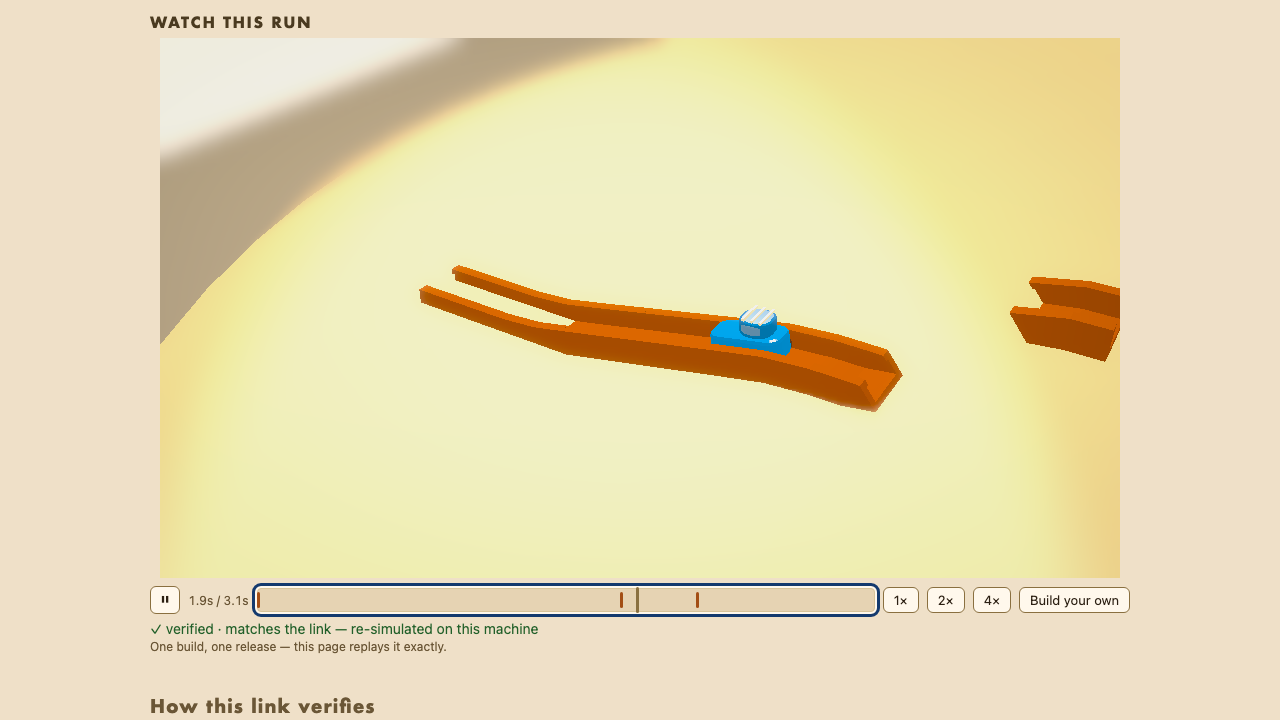
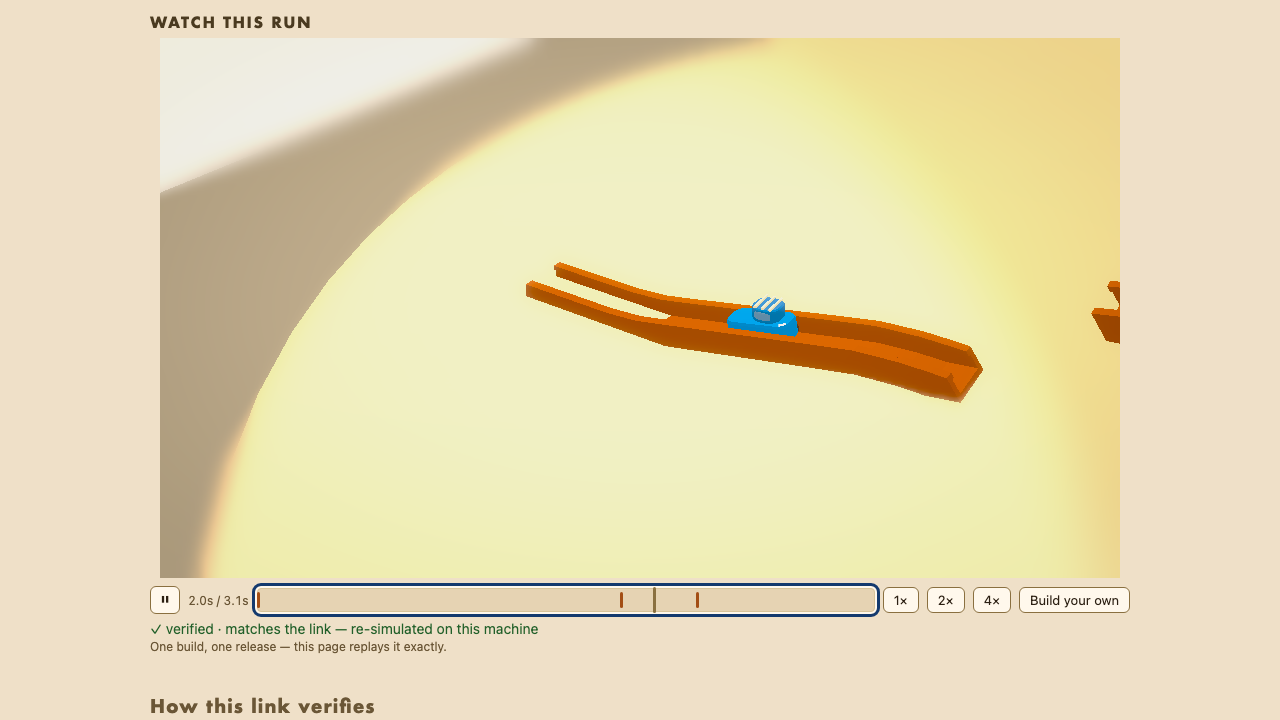
downhill: the front door session note — the re-baseline enumerated per surface; probes out of the tree

Changed region(s): [[0.125, 0.0306, 0.5938, 0.825], [0.3125, 0.3667, 0.7812, 0.5806], [0.7812, 0.3667, 0.875, 0.5194]]

diff --git a/tests/unit/front-door.test.ts b/tests/unit/front-door.test.ts
@@ -1,0 +1,68 @@
+/**
+ * THE FRONT DOOR purs (downhill build 2): the window naming and the sill
+ * are pure folds of the campaign table and the save's stars — the same
+ * registry-truth law the farewell tally obeys — and the parked wide crane
+ * (`homePose`) plus the beat's pull-back (`beatPullPose`) are pure over
+ * the layout, so the frame that holds six windows is a theorem of the
+ * deck bounds and the frustum, not a tuning. `HOUSE_BEAT_LEVEL` is the
+ * input law honored in the beat's data: no wind, one legal launch push.
+ */
+import { describe, expect, test } from 'vitest';
+import { windowAriaName, windowSillLine, HOUSE_BEAT, HOUSE_BEAT_LEVEL } from '../../src/pages/house.ts';
+import { homePose, beatPullPose, menuPose } from '../../src/camera/house-camera.ts';
+import { HOUSE } from '../../src/world/levels/house.level.ts';
+import { houseLayout } from '../../src/world/house-frame.ts';
+
+describe('the window name and the sill — registry folds, not strings', () => {
+  test('the prompt’s shape: room, rungs, toured — and the star clause only when earned', () => {
+    expect(windowAriaName('Kitchen', 5, 8, 15)).toBe('kitchen, 5 rungs, toured, 8 of 15 stars');
+    expect(windowAriaName('Kitchen', 5, 15, 15)).toBe('kitchen, 5 rungs, toured, 15 of 15 stars');
+    expect(windowAriaName('Garden', 5, 0, 15)).toBe('garden, 5 rungs, not toured yet');
+  });
+  test('nothing earned, nothing worn — an unstarred room wears no fake stars', () => {
+    expect(windowSillLine(0, 15)).toBe('');
+    expect(windowSillLine(5, 15)).toBe('★ 5/15');
+  });
+});
+
+describe('the parked wide crane — the menu camera the door projects through', () => {
+  const layout = houseLayout();
+  test('homePose frames EVERY deck: all six centers inside the frustum', () => {
+    const p = homePose(layout, 35, 960 / 540);
+    // eye pulled back along +z from the section’s axis; every deck center
+    // projects inside NDC with the 15 % margin baked in
+    const vFov = (35 * Math.PI) / 180;
+    const hFov = 2 * Math.atan(Math.tan(vFov / 2) * (960 / 540));
+    for (const d of layout.decks) {
+      const dx = Math.abs(d.center[0] - p.target[0]);
+      const dy = Math.abs(d.center[1] - p.target[1]);
+      const z = p.eye[2] - d.center[2];
+      expect(dx).toBeLessThan(z * Math.tan(hFov / 2));
+      expect(dy).toBeLessThan(z * Math.tan(vFov / 2));
+    }
+    expect(p.eye[2]).toBeGreaterThan(8); // wide, not a porch close-up
+    expect(p.fog).toBe(0);
+  });
+  test('beatPullPose starts AT the kitchen window and ends at the wide house', () => {
+    const from = menuPose(layout, 'kitchen');
+    const wide = homePose(layout, 35, 960 / 540);
+    const p0 = beatPullPose(layout, 0, HOUSE_BEAT.pullS, 35, 960 / 540);
+    const p1 = beatPullPose(layout, HOUSE_BEAT.pullS, HOUSE_BEAT.pullS, 35, 960 / 540);
+    expect(p0.eye).toEqual(from.eye);
+    for (let i = 0; i < 3; i++) expect(p1.eye[i]).toBeCloseTo(wide.eye[i], 9);
+    const mid = beatPullPose(layout, HOUSE_BEAT.pullS / 2, HOUSE_BEAT.pullS, 35, 960 / 540);
+    expect(mid.eye[2]).toBeGreaterThan(p0.eye[2]); // it only ever pulls back
+    expect(mid.eye[2]).toBeLessThan(p1.eye[2]);
+  });
+});
+
+describe('the beat’s data — the input law honored, the receipt untouched', () => {
+  test('no wind in the data, one launch push, the house’s own geometry', () => {
+    expect(HOUSE_BEAT_LEVEL.inputs).toEqual({ windEvery: 0, windDeltaV: 0, launchSpeed: 1.3 });
+    expect(HOUSE_BEAT_LEVEL.id).toBe('house');
+    expect(HOUSE_BEAT_LEVEL.parBuild).toBe(HOUSE.parBuild);
+  });
+  test('the beat’s timings are the measured roll: pull, kitchen-crossing roll-end, still', () => {
+    expect(HOUSE_BEAT).toEqual({ pullS: 1.0, rollEndS: 4.5, stillS: 0.5, timeoutMs: 12000 });
+  });
+});

diff --git a/docs/vault/Sessions/2026-10-12 Front door.md b/docs/vault/Sessions/2026-10-12 Front door.md
@@ -1,0 +1,101 @@
+---
+tags: [session]
+livedocs: snapshot
+---
+# 2026-10-12 Front door
+
+Feel Engineer, build 2 of "THE DOWNHILL greenlit" (branch `dh-door`, ports 5050+). The irreversible
+commit of the program, taken in the open: THE FRONT DOOR — the home screen becomes THE HOUSE,
+rendered — and THE FAREWELL REWIRED, NOT DELETED. Laws 3 and 4 executed verbatim; the house route
+shipped in `dh-house` (receipt `6caea49b`, camera v1) is the ground this stands on.
+
+## What shipped (the five artifacts)
+
+1. **HOME SCREEN = THE HOUSE** (`src/pages/house.ts` home mode, routed by `src/boot.ts`): the bare
+   route renders the cross-section under the parked wide crane (`homePose` — camera v2, the crane's
+   path parked as the menu camera it always was, pure over the deck bounds + frustum). THE SIX
+   WINDOWS are the interactive level select: `#gw-house-window-<room>` buttons projected through
+   exactly that pose (`placeWindows` — positions are layout facts, not tunings), named
+   `kitchen, 5 rungs, toured, 8 of 15 stars` (`windowAriaName` — stars folded per room from
+   `progress.stars`), toured rooms wearing `★ 8/15` on the sill (`windowSillLine`), Enter/Tab
+   opening the room's tour list AT THE UNCHANGED `?level=<room>NN` BYTES (locked rungs stay locks).
+   The house run is the front-door act (the same Release, the same receipt); the daily chip
+   (`#gw-daily-board` → `?daily=1`) and the LINES corner (the level select's own `createLinesTab`)
+   kept their corner chrome; `?levels=1` rides this commit UNCHANGED. **Premise beat REPURPOSED**:
+   first visit = the crane pulls back from the KITCHEN window (`beatPullPose`, 1.0 s) while a
+   stepped world over `HOUSE_BEAT_LEVEL` — the house with the wind OFF in the DATA and one legal
+   launch push (`launchSpeed: 1.3`, no wind: every force still in replayed data, the input law
+   honored by the letter) — free-rolls one room (garage @ 1.43 s) and dies in the next (the kitchen
+   crossing @ 3.23 s, roll-end 4.5 s, still 0.5 s): the game saying "it's all one place" BEFORE any
+   UI word (windows, chrome and sound all hidden by the same `.gw-premiere`; records nothing — the
+   e2e proves no best is minted by watching). Audience law UNCHANGED in `src/pages/intro.ts`
+   (webdriver skips, `intro=1` forces, `intro=off`/reduced-motion never sit through, ONE seen flag
+   via `markPremiereSeen`); the beat's world is a second stepped `World`, disposed at the end.
+2. **THE FAREWELL REWIRED** (`src/pages/farewell.ts`): porch05's first clear still plays the crane
+   pass + three doors — law kept VERBATIM, the page otherwise untouched. The row door 1 opens ON
+   gained, once the house exists, a seventh honest name: `#gw-farewell-house` — "the whole house",
+   deep-linking the house route at its build-1 bytes `?level=house`, gated on the registry (no
+   house, no link — the farewell never opens a door that is not there). Door 1's own click still
+   lands the porch sandbox in one click: the one-click-one-landing law is not what grew.
+3. **THE RE-BASELINE ACT** (law 3, stated not quiet) — enumerated per surface below. The URL
+   family (`tests/e2e/goto.ts`) grew `?boot=rung` as a DEFAULT for non-visual specs and
+   `?boot=house` as its named counterpart; the routing rule in `src/boot.ts`: bare route → home;
+   `?boot=rung` → the old front end; ANY rig address (`level/build/set/launch/daily`) routes
+   exactly as it always did — addressing doctrine stands.
+4. **A11Y**: every window is a real button in the Tab walk ONCE with the room-reading name
+   (proved by a real Tab traversal, never `focus()`), Enter enters, the global `:focus-visible`
+   ring (3 px `#143a6e`, 8.7:1 on the paper — the same contrast receipt as every surface) reads on
+   the cream cross-section; the sill is text, never color-only; the stage-6 a11y gate itself rides
+   `?boot=rung` UNCHANGED (it audits the game page, which did not move).
+5. **COLD-LOAD TRIPWIRE EXTENDED**: the build-1 standing tripwire (first page-load run equals the
+   node replay on a fresh profile) pointed at the ADDRESSED house page; build 2 adds the HOME-BOOT
+   face — bare `/?boot=house&launch=1`, first release, fresh browser, `hash === node`, steps equal,
+   ≥ 3 rooms (`front-door.spec.ts`). The receipt is the receipt behind whichever door.
+
+## THE RE-BASELINE ACT — every surface, WHAT moved and WHY (law 3's "enumerated per surface")
+
+| surface | what moved | why |
+|---|---|---|
+| bare `/` route | kitchen01 builder → THE HOUSE rendered | law 3, the irreversible UI act itself |
+| `tests/e2e/goto.ts` (non-visual family) | defaults grew `boot=rung`; every relative landing otherwise byte-same | the specs audit the rung chrome; they say "old front end" EXPLICITLY through the one door, per harness doctrine (parameter, not mutation) |
+| visual specs (`visual.spec.ts`, filmstrip, hash family, perf, post-dispose, harness) | ZERO edits; they never import the door and ride DEFAULT pages | they opt into fronts CONSCIOUSLY — and every existing view ADDRESSES its rig (`?harness=1…`, `?level=kitchen01&post=on`), so no pixel they own moved |
+| pixel baselines — `establishing`/`hero`/`floor`, `shell-kitchen01-idle` | UNMOVED, 0.0000 % at this HEAD | addressed surfaces the door did not touch (the append-only promise holding) |
+| pixel baselines — NEW `shell-home-idle` | added: `/?boot=house&post=on`, parked cross-section, no run/ghost; frame-stability self-check 0.0000 % (0 px, two captures); darwin committed, THE NEW LINUX VIEW bootstraps via the `linux-baselines` CI job (line extended per-view); joined `CI_ENFORCED_VIEWS` | the shipped FRONT PAGE needs pixel truth on CI's machine too (N1 doctrine, second member) |
+| first-visit e2e (`intro.spec.ts`) | REWRITTEN for the house boot: bare landing lands on the house (windows live, no beat under webdriver); `?intro=1` asserts the house beat (chrome hidden incl. the windows, ends ≤ ~6 s, records no best, skip returns the door, seen flag honoured); the old kitchen01 par-roll assertions retired — that film now exists only as the `?boot=rung&intro=1` rig | the beat MOVED with the door (law 4's beginning); the rung boot is an address and no longer anyone's first visit |
+| farewell e2e (`farewell.spec.ts`) | door-1 row count 6 → 7 + `#gw-farewell-house` name/href + a click-through that lands `?level=house`; every other door test byte-identical | the rewire is ONE added name on what door 1 opens ON; crane pass, three doors, one-click law verbatim |
+| a11y specs (`a11y.spec.ts`, `a11y-touch.spec.ts`) | UNCHANGED (they ride `?boot=rung` via the door) | the game-page walk, focus and never-color-only laws are surfaces the act did not move; the NEW surfaces' walk/names/ring are gated by `front-door.spec.ts` |
+| every other chrome/e2e spec (shell, result, p4-chrome, builder, playtests, campaign, daily, chain…) | ZERO edits — the `boot=rung` default carries them | law 3's promise: re-baseline means ENUMERATED, not quietly shifted |
+| `?levels=1` board + `createLinesTab` | UNCHANGED (the door OPENS the lines tab; one source for the rows) | the addressed board remains the board; the windows are the same player surface worn by the house, byte-compatible by construction |
+| downhill e2e (build 1's proofs) | UNCHANGED and green | `?level=house` addressing untouched; the tour byte-comparison proves the demotion again at the new door |
+| cold-load tripwire | EXTENDED (home boot first run = node hash), build-1 tripwire untouched | the door is presentation only: the same data, the same receipt, whichever door you enter |
+
+## The referee (final, at the branch tip)
+
+`npm run typecheck` clean · `npm test` 1016/1016 (55 files — `front-door.test.ts` joins: window
+naming/sill folds, `homePose` framing EVERY deck, `beatPullPose` endpoints/monotony, the beat's
+data) · `npm run replay:all` **30/30 verified, byte-identical** (house atlas row `6caea49b`/807
+untouched — the boot-family work added no physics) · `tally:sweep` 0/325 degenerates, farm 3 ·
+full `playwright test` green incl. the re-baselined `intro`, the rewired `farewell`, the new
+`front-door` (13 tests) and `visual` 8/8 (darwin views all 0.0000 %; `shell-home-idle` linux truth
+bootstraps on the PR via the CI job) · the home-boot tripwire hashes `6caea49b`/807, browser ===
+node, first launch, fresh profile.
+
+## Findings for the director
+
+- The beat's free-roll is THE measured number, not a tuning: wind-off + `launchSpeed: 1.3`
+  approves garage @ 1.43 s and kitchen @ 3.23 s, stalls @ ~9.4 s — the beat ends on its OWN plan
+  (4.5 s roll-end), so the player watches the death, not the stall-detection. `16 m/s` flung it
+  past kitchen (no approval, an honest near-miss logged by the sweep in `tmp/beatsweep.ts`, kept
+  out of the tree by the cleanup commit); `13` is the data that says "one room and dies in the
+  next".
+- Camera v2 is HONEST, not yet beautiful: the wide stance reads the staircase (six decks framed
+  with a 15 % margin) but the far rooms are small — the spike's per-room focused passes
+  (`shots` re-aimed per deck, `setCameraSolids` house-wide, the cross-section dressing) remain
+  the named later work, now with a home to arrive in.
+- Stated edges: `?boot=house&launch=1` suppresses the beat (a launch rig is addressed by
+  definition — the same doctrine as `?intro`'s address list, which grew `boot`/`launch`);
+  `?room=` deep-links OPEN their window on the home screen (the camera gesture and the affordance
+  are one act); a first visit that lands on `?level=house` directly still plays no beat (addressed
+  = not first), which the audience table already said.
+- Pre-existing, inherited honestly: the porch drive-past finding and the `pars.json` drift note
+  from build 1 — neither moved here (no campaign data touched).
